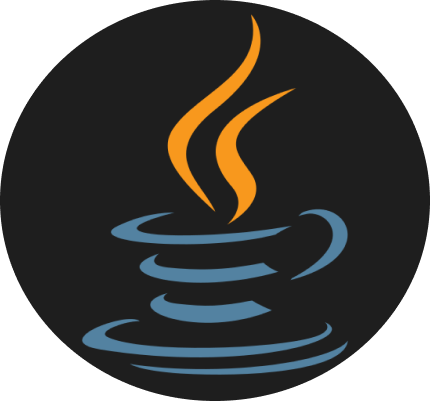
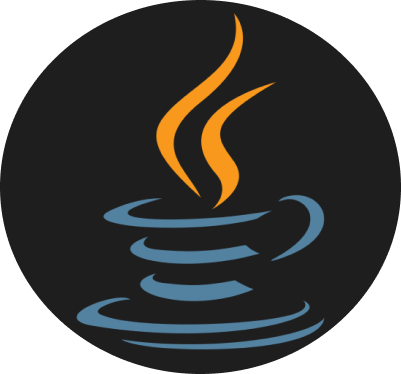
resized experience bubbles

Changed region(s): [[0.9875, 0.5882, 1.0, 0.6176], [0.9875, 0.3824, 1.0, 0.4118], [0.5985, 0.0882, 0.6284, 0.1176]]

diff --git a/css/style.css b/css/style.css
@@ -59,15 +59,16 @@ body {
   box-sizing: border-box; /* Include padding in the element's width calculation */
 }
 .mssql {
-  width: 430px;
-  height: 401px;
+  width: 401px;
+  height: 374px;
+  flex-shrink: 0;
+  border-radius: 401px;
   background: rgba(30,30,30,1);
   background: url("../images/mssql.png");
   opacity: 1;
   position: absolute;
   top: 1585px;
   left: 505px;
-  border-radius: 50%;
 }
 .my-expertise {
   width: 395px;
@@ -82,47 +83,51 @@ body {
   text-align: left;
 }
 .mongodb {
-  width: 430px;
-  height: 401px;
+  width: 401px;
+  height: 374px;
+  flex-shrink: 0;
+  border-radius: 401px;
   background: rgba(30,30,30,1);
   background: url("../images/mongodb.png");
   opacity: 1;
   position: absolute;
   top: 1585px;
   left: 965px;
-  border-radius: 50%;
 }
 .cpp {
-  width: 430px;
-  height: 401px;
+  width: 401px;
+  height: 374px;
+  flex-shrink: 0;
+  border-radius: 401px;
   background: url("../images/cpp.png");
   opacity: 1;
   position: absolute;
   top: 1209px;
   left: 735px;
-  border-radius: 50%;
 }
 .typescript {
-  width: 430px;
-  height: 401px;
+  width: 401px;
+  height: 374px;
+  flex-shrink: 0;
+  border-radius: 401px;
   background: rgba(49,120,198,1);
   background-image: url('../images/typescript.png');
   opacity: 1;
   position: absolute;
   top: 1209px;
   left: 275px;
-  border-radius: 50%;
 }
 .java {
-  width: 430px;
-  height: 401px;
+  width: 401px;
+  height: 374px;
+  flex-shrink: 0;
+  border-radius: 401px;
   background: rgba(30,30,30,1);
   background-image: url('../images/java.png');
   opacity: 1;
   position: absolute;
   top: 1585px;
   left: 45px;
-  border-radius: 50%;
 }
 
 
